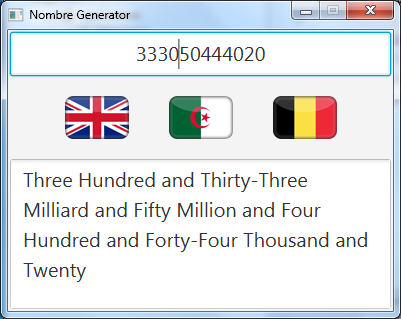
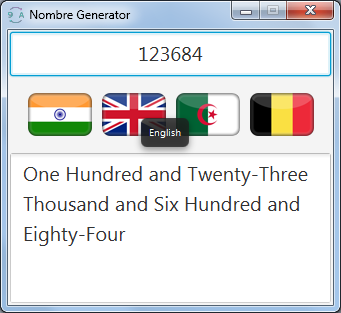
Change the Documentation According to the new feature

diff --git a/README.md b/README.md
@@ -8,7 +8,7 @@ Hint
 ----
 * input must be in this intervalle : [0, Long.MAX_VALUE]
 * you can switch ON/OFF colored output from ToggleColor()
-* Generate into three languages Arabic, English, Frensh
+* Generate into three languages Arabic, English, Frensh, Indian
 
 ![alt text](doc/img.png)
 
@@ -18,6 +18,7 @@ User Interface
 ![alt text](doc/doc_ar.png)
 ![alt text](doc/doc_en.png)
 ![alt text](doc/doc_fr.png)
+![alt text](doc/doc_ind.png)
 ![alt text](doc/doc_err.png)
 
 notice this project is open for any contribution
